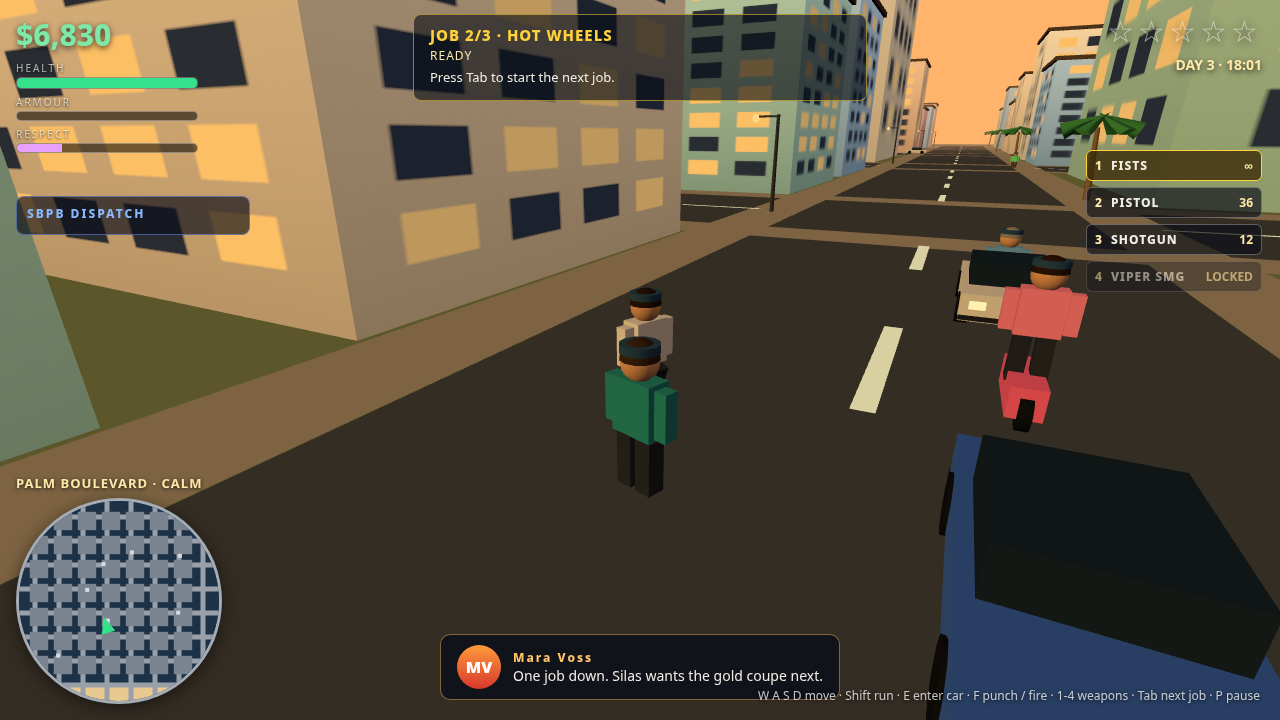
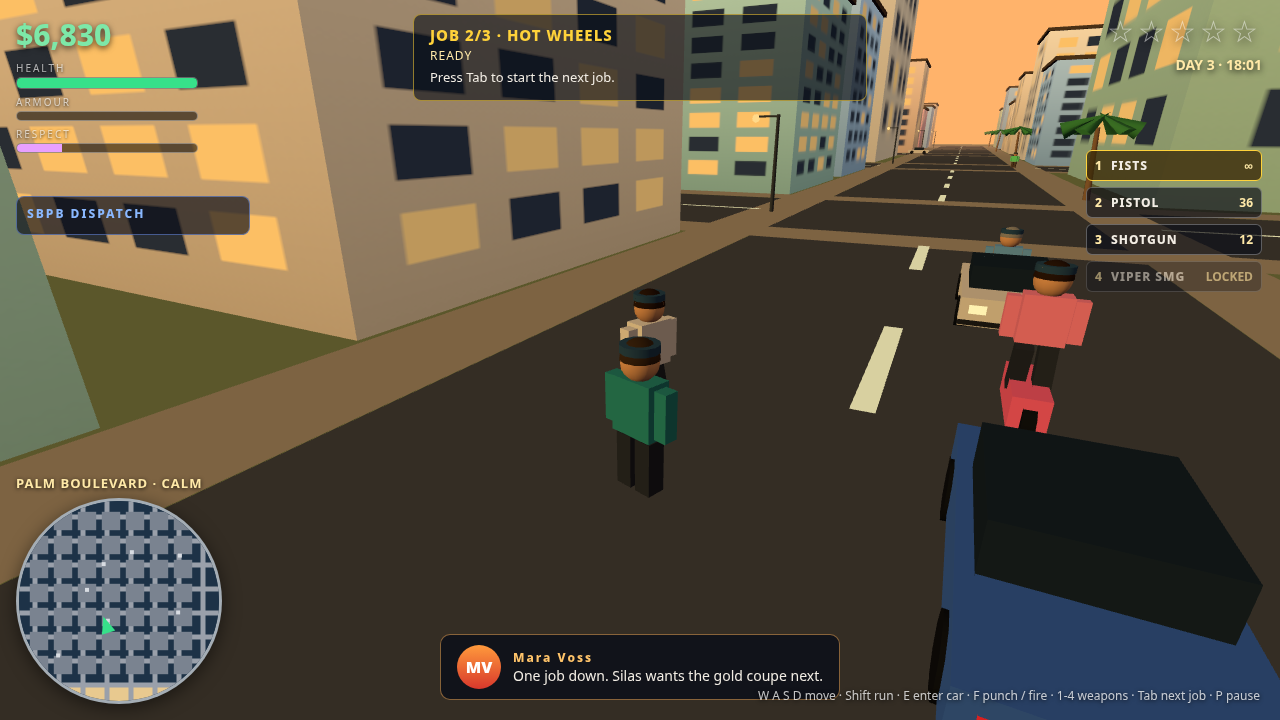
Round 3: waypoint compass, faster early game, denser cover shot

diff --git a/game/src/shots.js b/game/src/shots.js
@@ -56,8 +56,8 @@ export function stageShot(name, ctx) {
 
   if (name === 'cover') {
     // A police chase, nine days in: Mara in the red sedan with the gold
-    // coupe's job on its second stage, four stars, the air unit overhead,
-    // three cruisers in frame and traffic on the boulevard. The camera sits
+    // coupe's job on its second stage, five stars, the air unit overhead,
+    // four cruisers in frame and traffic on the boulevard. The camera sits
     // at a three-quarter rear angle so the cruisers behind her read.
     stageMidGame(ctx, 12450, 9, 1120, 50, 55, 72);
     const car = placePlayerInCar(ctx, 0, Math.PI / 2);
@@ -80,14 +80,14 @@ export function stageShot(name, ctx) {
     missions.active.target = new THREE.Vector3(missions.places.garage.x, 0, missions.places.garage.z);
     missions.moveBeacon();
     ctx.say('Silas: "That is the one. Bring it to the garage on the west side."');
-    placeCruisersBehind(ctx, car, 4);
+    placeCruisersBehind(ctx, car, 5);
     // Cruisers placed for the camera, not just the chase logic: one head-on
     // in the far lane (the law coming at her), one on her left flank just
     // ahead, one on her right a little further up. The chase AI takes over
     // from here, so a ram or two on the way to the frame is part of the shot.
     const fwd = new THREE.Vector3(Math.sin(car.heading), 0, Math.cos(car.heading));
     const side = new THREE.Vector3(Math.cos(car.heading), 0, -Math.sin(car.heading));
-    const [c0, c1, c2] = ctx.police.cruisers;
+    const [c0, c1, c2, c3] = ctx.police.cruisers;
     c0.group.position.copy(car.group.position).addScaledVector(fwd, 42).addScaledVector(side, -4.4);
     c0.heading = car.heading + Math.PI;
     c0.group.rotation.y = c0.heading;
@@ -97,6 +97,11 @@ export function stageShot(name, ctx) {
     c2.group.position.copy(car.group.position).addScaledVector(fwd, 24).addScaledVector(side, 4.5);
     c2.heading = car.heading;
     c2.group.rotation.y = c2.heading;
+    // Fourth cruiser, five stars: on the left flank between the near
+    // cruiser and the head-on one, so the chase reads four-wide.
+    c3.group.position.copy(car.group.position).addScaledVector(fwd, 30).addScaledVector(side, -5.5);
+    c3.heading = car.heading;
+    c3.group.rotation.y = c3.heading;
     // The air unit hangs ahead and to the left, in the frame with her: a
     // wide orbit (36m) and a low hover (16m) keep it inside the camera's
     // vertical field instead of vanishing above the top of the frame. The
@@ -116,6 +121,14 @@ export function stageShot(name, ctx) {
     traffic.cars[2].heading = Math.PI / 2;
     traffic.cars[3].group.position.set(-100, 0, 25.6);
     traffic.cars[3].heading = -Math.PI / 2;
+    // Round 3: more life in the frame — two more cars on the far side of
+    // the boulevard and two pedestrians on the near sidewalk.
+    traffic.cars[4].group.position.set(45, 0, 25.6);
+    traffic.cars[4].heading = -Math.PI / 2;
+    traffic.cars[5].group.position.set(10, 0, 25.6);
+    traffic.cars[5].heading = -Math.PI / 2;
+    traffic.peds[4].group.position.set(-45, 0, 38.5);
+    traffic.peds[5].group.position.set(-75, 0, 21.5);
     return;
   }
 

diff --git a/game/src/hud.js b/game/src/hud.js
@@ -37,6 +37,9 @@ export class Hud {
     this.dialogueName = document.getElementById('dialogue-name');
     this.dialogueLine = document.getElementById('dialogue-line');
     this.hintEl = document.getElementById('hint');
+    this.navEl = document.getElementById('nav');
+    this.navArrow = document.getElementById('nav-arrow');
+    this.navText = document.getElementById('nav-text');
     this.map = document.getElementById('minimap');
     this.mapCtx = this.map.getContext('2d');
     this.toastTimer = 0;
@@ -112,6 +115,7 @@ export class Hud {
       this.missionTimer.textContent = '';
     }
     this.drawDispatch(state.dispatch);
+    this.drawNav(state);
     this.drawWeapons(state.weapons);
     this.hintEl.textContent = state.inCar
       ? 'W A S D drive · E exit car · 1-4 weapons · R radio · P pause · M mute'
@@ -152,6 +156,30 @@ export class Hud {
           `<span class="w-ammo">${s.locked ? 'LOCKED' : s.ammo === Infinity ? '∞' : s.ammo}</span></div>`,
       )
       .join('');
+  }
+
+  // The waypoint compass: a gold arrow that always points at the active
+  // job's target, with the next step and the distance in metres. The
+  // arrow turns with the camera, so up means straight ahead. No target
+  // (between jobs, or the getaway's "lose them" stage) hides it.
+  drawNav(state) {
+    const t = state.missionTarget;
+    if (!t) {
+      this.navEl.classList.add('hidden');
+      return;
+    }
+    this.navEl.classList.remove('hidden');
+    const dx = t.x - state.playerX;
+    const dz = t.z - state.playerZ;
+    const dist = Math.round(Math.hypot(dx, dz));
+    const bearing = Math.atan2(dx, dz);
+    const forward = state.camYaw + Math.PI;
+    let rel = bearing - forward;
+    while (rel > Math.PI) rel -= Math.PI * 2;
+    while (rel < -Math.PI) rel += Math.PI * 2;
+    // The glyph points right at rest; up is straight ahead, clockwise is right.
+    this.navArrow.style.transform = `rotate(${(-rel - Math.PI / 2).toFixed(3)}rad)`;
+    this.navText.textContent = `NEXT ▸ ${state.mission.next} · ${dist}m`;
   }
 
   drawMinimap(state) {

diff --git a/main.ts b/main.ts
@@ -46,12 +46,24 @@ const dossier = buildDossier(out, {
 });
 writeFileSync(join(out, 'dossier.json'), dossier);
 
+// Round 3: refuse to hand in a dossier the gate would refuse — a shot
+// over the 256 KiB cap fails the whole entry, so catch it here.
+for (const n of readdirSync(join(out, 'screenshots')).filter((x) => !x.startsWith('.'))) {
+  const bytes = statSync(join(out, 'screenshots', n)).size;
+  if (bytes > 262144) throw new Error(`screenshot ${n} is ${bytes} bytes, over the 256 KiB cap`);
+}
+
 // A short build summary on stdout, so a human running it sees what went in.
 // Screenshot sizes are printed too: the gate caps each one at 256 KiB, and
 // a size here that creeps over the cap is the first thing to catch. The
 // biggest game file is printed as well: the dossier shows sources up to its
 // 160 KiB text cap, so a file that grows past it is worth knowing about.
 const shotNames = readdirSync(join(out, 'screenshots')).filter((n) => !n.startsWith('.'));
+// The gate wants 3 or 4 screenshots: fewer shows too little of the game,
+// more is refused outright.
+if (shotNames.length < 3 || shotNames.length > 4) {
+  throw new Error(`expected 3 or 4 screenshots, found ${shotNames.length}`);
+}
 const shotSizes = shotNames
   .map((n) => `${n} ${Math.round(statSync(join(out, 'screenshots', n)).size / 1024)} KiB`)
   .join(', ');

diff --git a/game/style.css b/game/style.css
@@ -38,6 +38,15 @@ html, body {
 #mission-stage { font-size: 12px; color: #ffe9a8; letter-spacing: 1px; margin-top: 2px; }
 #mission-next { font-size: 13px; color: #f2ede4; margin-top: 4px; }
 #mission-timer { font-size: 14px; font-weight: 800; color: #ff8a5a; margin-top: 4px; }
+#nav {
+  position: absolute; top: 152px; left: 50%; transform: translateX(-50%);
+  display: flex; align-items: center; gap: 10px; padding: 6px 14px; white-space: nowrap;
+  background: rgba(10, 14, 24, .62); border: 1px solid rgba(255, 210, 58, .55); border-radius: 8px;
+  font-size: 14px; font-weight: 800; letter-spacing: 1px; color: #ffd23a;
+  text-shadow: 0 1px 4px rgba(0,0,0,.8);
+}
+#nav-arrow { display: inline-block; font-size: 20px; line-height: 1; }
+#nav-text { font-size: 13px; color: #f2ede4; }
 #dispatch {
   position: absolute; left: 16px; top: 196px; width: 212px; padding: 8px 10px;
   background: rgba(10, 14, 24, .66); border: 1px solid rgba(120, 160, 255, .5); border-radius: 8px;

diff --git a/game/src/main.js b/game/src/main.js
@@ -515,6 +515,7 @@ function update(dt) {
     playerX: playerPos().x,
     playerZ: playerPos().z,
     heading: playerHeading(),
+    camYaw: state.camYaw,
     missionTarget: missions.active && missions.active.target ? missions.active.target : null,
     policeDots: police.cruisers.map((c) => ({ x: c.group.position.x, z: c.group.position.z, disabled: c.disabled > 0 })),
     trafficDots: traffic.cars.map((c) => ({ x: c.group.position.x, z: c.group.position.z })),
@@ -548,6 +549,10 @@ function update(dt) {
     speed,
     playerX: playerPos().x,
     playerZ: playerPos().z,
+    camYaw: state.camYaw,
+    navTarget: missions.active && missions.active.target
+      ? { x: missions.active.target.x, z: missions.active.target.z }
+      : null,
     missionIndex: missions.index,
     missionActive: !!missions.active,
     missionPanel: missions.panel(),

diff --git a/game/src/config.js b/game/src/config.js
@@ -53,7 +53,7 @@ export const CAR_TUNING = {
 
 export const WANTED_TUNING = {
   maxStars: 5,
-  decaySeconds: 25, // no crime for this long drops one star
+  decaySeconds: 18, // no crime for this long drops one star
   stealCar: 1,
   hitPedestrian: 1,
   hitPolice: 1,
@@ -134,7 +134,7 @@ export const MISSIONS = [
     initials: 'SC',
     objective: 'Pick up the package at the pier',
     stages: ['Reach the pier and grab the package'],
-    reward: 500,
+    reward: 600,
   },
   {
     id: 'hotwheels',

diff --git a/game/src/police.js b/game/src/police.js
@@ -85,6 +85,9 @@ export class Police {
 
   update(dt, target, targetSpeed, onFoot, onCrime) {
     this.sinceCrime += dt;
+    // Out of sight, out of mind: with no cruiser close, the heat fades
+    // half again as fast, so a clean break really ends the chase.
+    if (this.stars > 0 && !this.nearestCruiser(target, 45)) this.sinceCrime += dt * 0.5;
     // Laying low: one star fades every decay window.
     if (this.stars > 0 && this.sinceCrime > WANTED_TUNING.decaySeconds) {
       this.stars -= 1;

diff --git a/game/src/missions.js b/game/src/missions.js
@@ -164,7 +164,7 @@ export class MissionManager {
     if (def.id === 'pickup') {
       if (playerPos.distanceTo(this.active.target) < 3) {
         this.package.visible = false;
-        return this.complete(onMessage, 'Package secured. Silas is pleased — $500.');
+        return this.complete(onMessage, 'Package secured. Silas is pleased — $600.');
       }
     } else if (def.id === 'hotwheels') {
       if (this.active.stage === 'steal' && inCar && car && car.stolen && car.style === 'coupe') {

diff --git a/game/src/city.js b/game/src/city.js
@@ -259,7 +259,7 @@ export function buildCity(scene, seed) {
   }
 
   // Named places the missions point at.
-  places.pier = { x: 30, z: WORLD.beachStart + 26 };
+  places.pier = { x: 30, z: WORLD.beachStart + 14 };
   places.garage = { x: -150, z: 30 };
   places.safehouse = { x: -30, z: -30 };
   places.marinaRow = { x: 90, z: -90 };

diff --git a/game/index.html b/game/index.html
@@ -38,6 +38,7 @@
     <div id="mission-next">Press Tab to start the next job.</div>
     <div id="mission-timer"></div>
   </div>
+  <div id="nav" class="hidden"><span id="nav-arrow">➤</span><span id="nav-text"></span></div>
   <div id="dispatch">
     <div id="dispatch-title">SBPB DISPATCH</div>
     <div id="dispatch-rows"></div>

diff --git a/README.md b/README.md
@@ -28,10 +28,10 @@ mkdir -p out && MAKEFUN_OUTPUT_DIR=out node main.ts
 - **A city to explore** — a 7×7 grid of pastel blocks, palm-lined boulevards, a beach with umbrellas and the sea, all under a low sunset sun.
 - **On foot and by car** — third-person walking with a mouse-orbit camera; arcade driving with steering, braking and wall collisions. Press **E** near a parked car to take it. Every car has an original model name and a condition that falls as it is crashed.
 - **Traffic and pedestrians** — AI cars cruise the streets, pedestrians stroll the sidewalks, and a pink scooter putters along the boulevard.
-- **Wanted level** — 0–5 stars for stealing cars, hitting pedestrians and ramming cruisers. Police cars chase and ram; at four stars a helicopter joins with a searchlight. Lay low and the heat fades. Get busted on foot or wasted in a crash and you wake at the safehouse, $200 lighter.
+- **Wanted level** — 0–5 stars for stealing cars, hitting pedestrians and ramming cruisers. Police cars chase and ram; at four stars a helicopter joins with a searchlight. Lay low and the heat fades — faster once you break line of sight, so a clean getaway really ends the chase. Get busted on foot or wasted in a crash and you wake at the safehouse, $200 lighter.
 - **Three story missions** — *The Pickup*, *Hot Wheels*, *The Long Way Home* — with stages, a gold beacon, radio dialogue from Silas in a dialogue box, and cash rewards. The last job runs on a three-minute clock.
 - **Combat** — fists (F or click) plus a four-slot arsenal (pistol, shotgun, Viper SMG) unlocked as the story advances, with real ammo. Guns restock when a job pays out.
-- **HUD** — wanted stars and an air-unit flag, cash, health, armour and respect bars, a mission panel (job, stage, next step, clock), a police dispatch panel naming every unit with its live distance, weapon slots, a dialogue box with a character avatar, the radio station, the car's name and condition, the district and the heat, day and clock — and a live round minimap.
+- **HUD** — wanted stars and an air-unit flag, cash, health, armour and respect bars, a mission panel (job, stage, next step, clock), a waypoint compass that always points at the next objective with the next step and the distance in metres, a police dispatch panel naming every unit with its live distance, weapon slots, a dialogue box with a character avatar, the radio station, the car's name and condition, the district and the heat, day and clock — and a live round minimap.
 - **Save** — cash, jobs done, respect, armour, day, clock and ammo persist in localStorage; Continue picks up where you left off.
 - **Sound** — synthesized WebAudio: engine hum, two-tone siren, gunshots, radio blips, pickup chimes and a mission jingle. No audio files.
 
